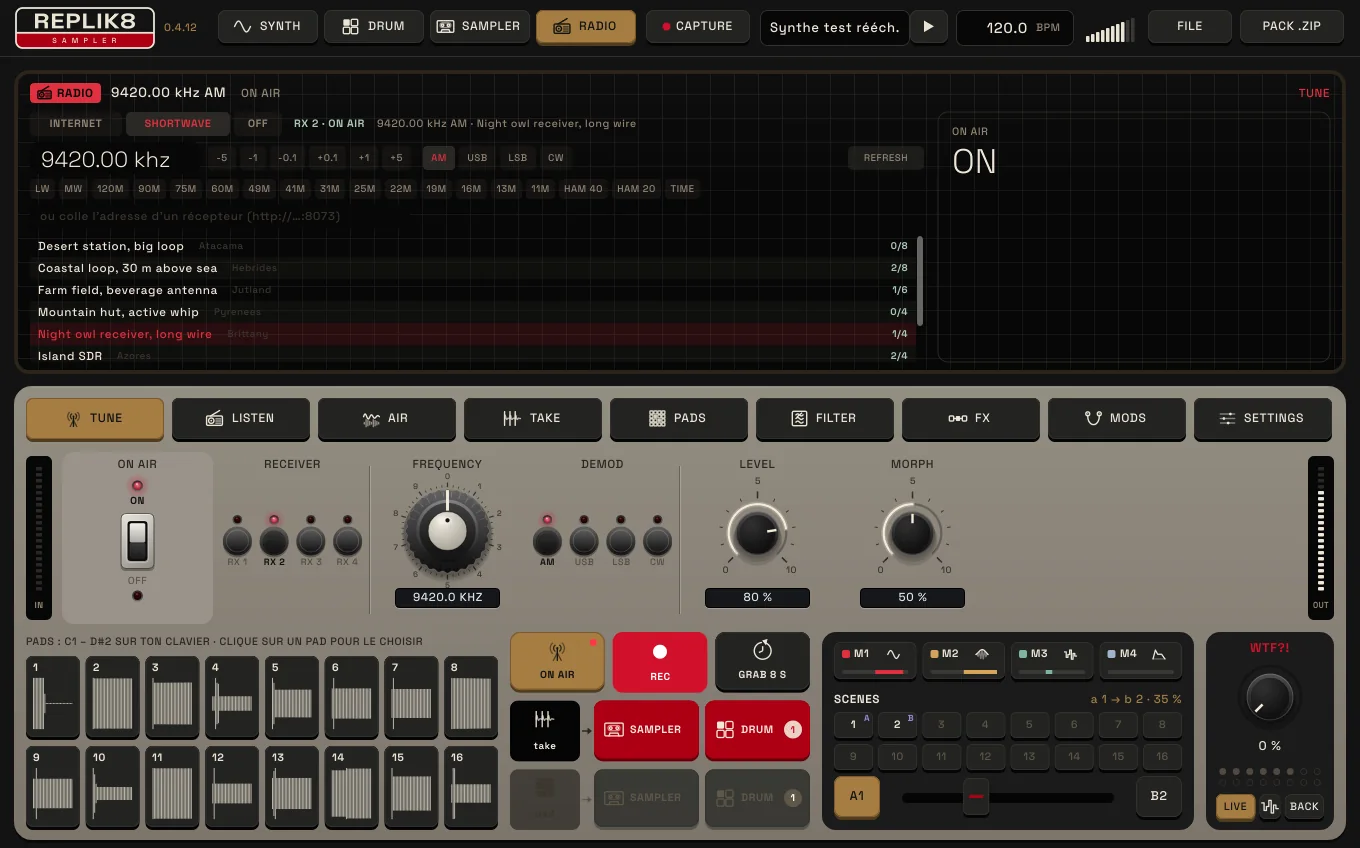
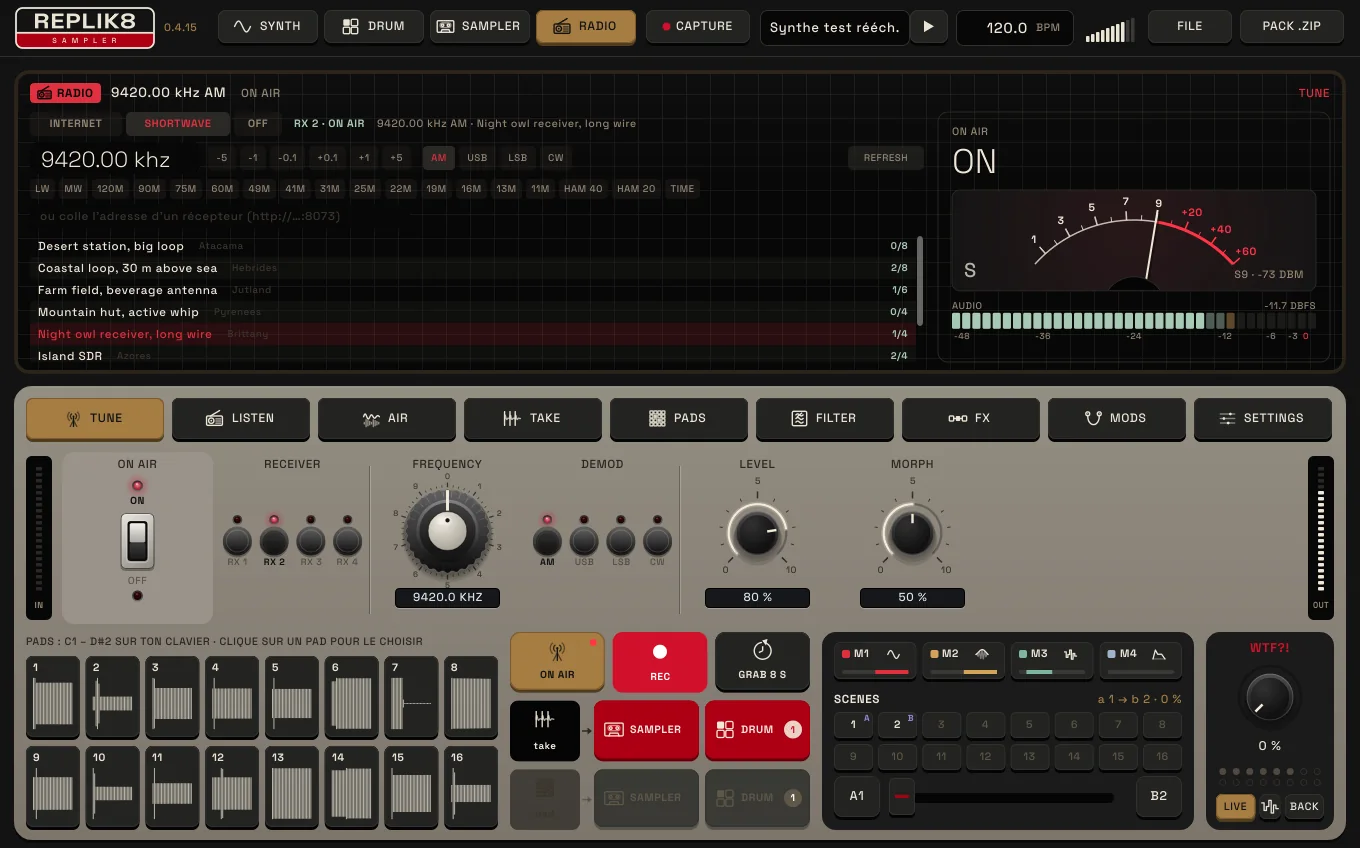
0.4.15: the radio's meters, an S-meter needle and the sound's level
- the right of the screen on the radio's pages: an S-meter (S1 .. S9, +20 .. +60) for a shortwave
  receiver, a VU of the sound for a station on the internet; below, a segmented bar (-48 .. 0 dBFS)
- radio::Engine::sigRms / sigPeak: the sound after the air, before LEVEL, block by block

Claude-Session: https://claude.ai/code/session_019CKNRPzxoxv9FfQ5Cf3pp3

diff --git a/site/index.html b/site/index.html
@@ -216,7 +216,7 @@
   <h2><span>07 · Radio</span><svg class="p" viewBox="0 0 24 24"><rect x="1.5" y="9" width="21" height="12.5" rx="1.6"/><circle cx="7.5" cy="15.2" r="3.4"/><circle class="f" cx="7.5" cy="15.2" r="1.1"/><path d="M14 12.5h5.5M14 15.2h5.5M14 17.9h5.5" opacity=".6"/><path d="M6.5 9 18.5 2"/></svg></h2>
   <p class="intro">Un onglet à part&nbsp;: la radio comme un instrument. Accorde un récepteur, écoute, et dès qu'un truc passe, prends-le. Il est aussitôt découpé en pads, ou envoyé au sampler ou au drum.</p>
   <ul class="steps-list">
-    <li><kbd>TUNE</kbd><b>Quatre récepteurs</b>&nbsp;: chacun sur une station internet (l'annuaire libre des stations, par nom, genre ou pays) ou sur un récepteur ondes courtes partagé sur le réseau, à la fréquence que tu veux (un gros potard d'accord qui tourne lentement pour l'accord fin, et accélère quand tu vas vite&nbsp;; un tour de son cadran pour 10&nbsp;kHz, et la bande défile sans coupure sous les petits mouvements), en AM, USB, LSB ou CW. Plus de 800 récepteurs dans le monde, les plus libres en premier&nbsp;; ou colle l'adresse d'un récepteur trouvé sur une carte (http://…:8073, sa fréquence avec). Le flux garde toujours une seconde d'avance, sans jamais dériver.</li>
+    <li><kbd>TUNE</kbd><b>Quatre récepteurs</b>&nbsp;: chacun sur une station internet (l'annuaire libre des stations, par nom, genre ou pays) ou sur un récepteur ondes courtes partagé sur le réseau, à la fréquence que tu veux (un gros potard d'accord qui tourne lentement pour l'accord fin, et accélère quand tu vas vite&nbsp;; un tour de son cadran pour 10&nbsp;kHz, et la bande défile sans coupure sous les petits mouvements), en AM, USB, LSB ou CW. Un S-mètre à aiguille montre la force du signal, et un VU-mètre le niveau du son. Plus de 800 récepteurs dans le monde, les plus libres en premier&nbsp;; ou colle l'adresse d'un récepteur trouvé sur une carte (http://…:8073, sa fréquence avec). Le flux garde toujours une seconde d'avance, sans jamais dériver.</li>
     <li><kbd>LIVE</kbd><b>Ce qui passe maintenant</b>, décalé comme par un récepteur accordé à côté, haché par le squelch entre les mots. Changer de station ne siffle pas&nbsp;: <b>MORPH</b> fige la station quittée, qui s'assombrit et s'efface pendant que la suivante arrive par-dessus. <b>LOOP</b> rejoue sa dernière mesure au tempo, <b>DIG</b> va chercher plus loin en arrière, à chaque tour.</li>
     <li><kbd>CUT</kbd><b>Un rythme découpé dans toutes tes radios à la fois</b>&nbsp;: chaque pas prend un récepteur au hasard et un moment de ses dernières secondes, calé sur une attaque, ou se tait. Des ratchets, des pas à l'envers, des pas coupés court&nbsp;; le motif boucle, se renouvelle peu à peu (GRAB), et un clic sur lui en tire un autre.</li>
     <li><kbd>AIR</kbd><b>L'air entre les deux</b>&nbsp;: la bande étroite du récepteur, le fading des ondes courtes, un orage au loin, le petit haut-parleur poussé.</li>

diff --git a/Source/ui/Machine.cpp b/Source/ui/Machine.cpp
@@ -1870,8 +1870,166 @@ private:
         }
         if (viz == "dtrig" || viz == "dsrc" || viz == "dpitch" || viz == "damp" || viz == "dtone" || viz == "dseq")
             paintDrumViz (g, viz, in);
+        else if (m.mode == Machine::radioMode && ! m.capture
+                 && (viz == "tune" || viz == "listen" || viz == "air" || viz == "take" || viz == "pads"))
+            paintRadioMeters (g, in);
         else
             paintViz (g, viz, in);
+    }
+
+    //------------------------------------------------------------------ (0.4.15) RADIO: its meters
+    // Above, a needle: a shortwave receiver's S-meter (S1 .. S9, 6 dB each, S9 at -73 dBm, then +20 .. +60 in red), or,
+    // for a station on the internet (nothing on the air to measure), a VU meter of its sound (0 VU at -18 dBFS RMS).
+    // Below, the sound's level as it comes through the air (before LEVEL): its RMS lit, its peaks over it, the highest
+    // held a moment
+    float needleAt = 0.0f, barRms = -90.0f, barPeak = -90.0f, holdDb = -90.0f;
+    double meterT = 0.0, holdT = 0.0;
+
+    void paintRadioMeters (juce::Graphics& g, juce::Rectangle<float> r)
+    {
+        auto& p = proc();
+        const double now = juce::Time::getMillisecondCounterHiRes() * 0.001;
+        const float dt = (float) juce::jlimit (0.0, 0.25, now - meterT);
+        meterT = now;
+        const int rx = juce::jlimit (0, radio::numRx - 1, (int) P (p, snd::rdRx));
+        const bool on = P (p, snd::rdOn) > 0.5f;
+        const int mc = p.radio.bank.rx[(size_t) rx].meterC.load (std::memory_order_relaxed);
+        const bool sw = p.hasRadioNet() && p.radioNet().getSource (rx).kind == 2;
+        const bool smeter = on && sw && mc != -32768;
+        const float rms = on ? p.radio.sigRms.load (std::memory_order_relaxed) : 0.0f;
+        const float pk = on ? p.radio.sigPeak.load (std::memory_order_relaxed) : 0.0f;
+        auto db = [] (float a) { return a > 1.0e-6f ? 20.0f * std::log10 (a) : -120.0f; };
+
+        // the needle's place (0 .. 1 along its scale)
+        const float dbm = (float) mc * 0.01f;
+        auto sPos = [] (float d)            // S0 (-127 dBm) .. S9 (-73): 0 .. 0.6; S9 .. +60 (-13): 0.6 .. 1
+        {
+            return d <= -73.0f ? 0.6f * juce::jlimit (0.0f, 1.0f, (d + 127.0f) / 54.0f) : 0.6f + 0.4f * juce::jlimit (0.0f, 1.0f, (d + 73.0f) / 60.0f);
+        };
+        auto vuPos = [] (float vu) { return juce::jlimit (0.0f, 1.0f, std::pow (10.0f, (vu - 3.0f) / 20.0f)); };   // a VU's face: in volts
+        const float vuNow = db (rms) + 18.0f;
+        const float target = ! on ? 0.0f : (smeter ? sPos (dbm) : vuPos (vuNow));
+        // its ballistics: an S-meter quick up and slow down, a VU as slow both ways
+        const float tc = smeter ? (target > needleAt ? 0.05f : 0.45f) : 0.3f;
+        needleAt += (target - needleAt) * (1.0f - std::exp (-dt / tc));
+
+        // ---- the needle's window
+        auto bar = r.removeFromBottom (juce::jmin (54.0f, r.getHeight() * 0.32f));
+        r.removeFromBottom (8.0f);
+        auto win = r;
+        g.setColour (col::screen.brighter (0.06f));
+        g.fillRoundedRectangle (win, 8.0f);
+        {
+            // a warm light behind the scale
+            juce::ColourGradient glow (col::sOrange.withAlpha (0.10f), win.getCentreX(), win.getY() + win.getHeight() * 0.35f,
+                                       col::sOrange.withAlpha (0.0f), win.getX(), win.getBottom(), true);
+            g.setGradientFill (glow);
+            g.fillRoundedRectangle (win, 8.0f);
+        }
+        g.setColour (col::screenLine);
+        g.drawRoundedRectangle (win, 8.0f, 1.0f);
+        {
+            juce::Graphics::ScopedSaveState keep (g);
+            g.reduceClipRegion (win.reduced (1.0f).toNearestInt());
+            const float half = juce::degreesToRadians (48.0f);
+            const juce::Point<float> pivot (win.getCentreX(), win.getBottom() + win.getHeight() * 0.62f);
+            const float R = pivot.y - (win.getY() + 30.0f);
+            auto at = [&] (float pos, float rad)
+            {
+                const float a = -half + 2.0f * half * pos;
+                return juce::Point<float> (pivot.x + std::sin (a) * rad, pivot.y - std::cos (a) * rad);
+            };
+            // the scale: its arc, white then red
+            const float redFrom = smeter ? 0.6f : vuPos (0.0f);
+            auto arc = [&] (float a0, float a1, juce::Colour c, float w)
+            {
+                juce::Path pa;
+                pa.addCentredArc (pivot.x, pivot.y, R, R, 0.0f, -half + 2.0f * half * a0, -half + 2.0f * half * a1, true);
+                g.setColour (c);
+                g.strokePath (pa, juce::PathStrokeType (w));
+            };
+            arc (0.0f, redFrom, col::screenText.withAlpha (0.8f), 1.5f);
+            arc (redFrom, 1.0f, col::sRed, 3.0f);
+            struct Mark { float pos; juce::String label; bool red; };
+            std::vector<Mark> marks;
+            if (smeter)
+            {
+                for (int s = 1; s <= 9; ++s)
+                    marks.push_back ({ sPos (-127.0f + 6.0f * (float) s), s % 2 == 1 ? juce::String (s) : juce::String(), false });
+                for (int plus : { 10, 20, 30, 40, 50, 60 })
+                    marks.push_back ({ sPos (-73.0f + (float) plus), plus % 20 == 0 ? "+" + juce::String (plus) : juce::String(), true });
+            }
+            else
+                for (int vu : { -20, -10, -7, -5, -3, -2, -1, 0, 1, 2, 3 })
+                    marks.push_back ({ vuPos ((float) vu), (vu == -20 || vu == -10 || vu == -5 || vu == -3 || vu == 0 || vu == 3) ? (vu > 0 ? "+" : "") + juce::String (vu) : juce::String(), vu > 0 });
+            for (auto& mk : marks)
+            {
+                const bool big = mk.label.isNotEmpty();
+                g.setColour (mk.red ? col::sRed : col::screenText.withAlpha (0.85f));
+                g.drawLine ({ at (mk.pos, R), at (mk.pos, R + (big ? 9.0f : 5.0f)) }, big ? 1.6f : 1.0f);
+                if (big)
+                    text (g, mk.label, juce::Rectangle<float> (34.0f, 14.0f).withCentre (at (mk.pos, R + 18.0f)), mono (11.0f, 600),
+                          mk.red ? col::sRed : col::screenText, juce::Justification::centred);
+            }
+            // what it reads, in its corners
+            text (g, smeter ? "S" : "VU", win.reduced (12.0f, 8.0f), grotesk (20.0f, 500), col::screenText.withAlpha (0.75f), juce::Justification::bottomLeft);
+            juce::String reading;
+            if (! on)
+                reading = "off air";
+            else if (smeter)
+            {
+                const int s = juce::jlimit (0, 9, (int) std::floor ((dbm + 127.0f) / 6.0f));
+                reading << "s" << s << (dbm > -73.0f ? "+" + juce::String (juce::roundToInt (dbm + 73.0f)) : juce::String())
+                        << " · "_fr << juce::roundToInt (dbm) << " dbm";
+            }
+            else
+                reading << (sw ? "no s-meter · " : "") << (vuNow < -40.0f ? juce::String ("--") : juce::String (juce::roundToInt (vuNow))) << " vu";
+            text (g, reading, win.reduced (12.0f, 9.0f), mono (11.0f), col::screenDim, juce::Justification::bottomRight);
+            // the needle, its shadow, the pivot's cap at the window's foot
+            const auto tip = at (needleAt, R + 12.0f), foot = at (needleAt, win.getHeight() * 0.05f);
+            g.setColour (juce::Colours::black.withAlpha (0.35f));
+            g.drawLine ({ foot.translated (2.0f, 2.0f), tip.translated (2.0f, 2.0f) }, 2.2f);
+            g.setColour (col::screenText);
+            g.drawLine ({ foot, tip }, 2.0f);
+            g.setColour (col::screen.darker (0.3f));
+            g.fillEllipse (juce::Rectangle<float> (64.0f, 64.0f).withCentre ({ pivot.x, win.getBottom() + 18.0f }));
+            g.setColour (col::screenLine);
+            g.drawEllipse (juce::Rectangle<float> (64.0f, 64.0f).withCentre ({ pivot.x, win.getBottom() + 18.0f }), 1.0f);
+        }
+
+        // ---- the bar: -48 .. 0 dBFS in segments (green, yellow from -12, red from -3)
+        const float rDb = db (rms), pDb = db (pk);
+        barRms += (rDb - barRms) * (1.0f - std::exp (-dt / (rDb > barRms ? 0.06f : 0.3f)));
+        barPeak = pDb > barPeak ? pDb : barPeak + (pDb - barPeak) * (1.0f - std::exp (-dt / 0.5f));
+        if (pDb >= holdDb || now - holdT > 1.5)
+        {
+            holdDb = pDb >= holdDb ? pDb : barPeak;
+            if (pDb >= holdDb - 0.01f)
+                holdT = now;
+        }
+        auto head = bar.removeFromTop (14.0f);
+        text (g, "audio", head, mono (10.0f), col::screenDim);
+        text (g, (! on || pDb < -90.0f) ? juce::String ("--") : juce::String (pDb, 1) + " dbfs", head, mono (10.0f), col::screenDim, juce::Justification::centredRight);
+        auto seg = bar.removeFromTop (16.0f);
+        auto labels = bar.removeFromTop (14.0f);
+        const int n = 36;
+        const float gap = 2.0f, sw2 = (seg.getWidth() - gap * (float) (n - 1)) / (float) n;
+        auto xOf = [&] (float d) { return seg.getX() + seg.getWidth() * juce::jlimit (0.0f, 1.0f, (d + 48.0f) / 48.0f); };
+        for (int i = 0; i < n; ++i)
+        {
+            const float d0 = -48.0f + 48.0f * (float) i / (float) n, d1 = -48.0f + 48.0f * (float) (i + 1) / (float) n;
+            const auto c = d1 > -3.0f ? col::sRed : (d1 > -12.0f ? col::sYellow : col::sGreen);
+            const bool lit = on && barRms >= d0, peakLit = on && barPeak >= d0, held = on && holdDb >= d0 && holdDb < d1;
+            const auto cell = juce::Rectangle<float> (seg.getX() + (float) i * (sw2 + gap), seg.getY(), sw2, seg.getHeight());
+            g.setColour (lit ? c : (peakLit ? c.withAlpha (0.45f) : (held ? c.withAlpha (0.9f) : col::screenLine.withAlpha (0.6f))));
+            g.fillRoundedRectangle (cell, 1.5f);
+        }
+        for (int d : { -48, -36, -24, -12, -6, -3, 0 })
+        {
+            const float x = xOf ((float) d);
+            text (g, juce::String (d), juce::Rectangle<float> (30.0f, 14.0f).withCentre ({ juce::jlimit (seg.getX() + 10.0f, seg.getRight() - 10.0f, x), labels.getCentreY() }),
+                  mono (9.0f), d > -3 ? col::sRed : col::screenDim, juce::Justification::centred);
+        }
     }
 
     // DRUM's pages: the track shown (its value on the first step lifted, if any)

diff --git a/Source/radio/RadioCore.cpp b/Source/radio/RadioCore.cpp
@@ -625,7 +625,8 @@ void Engine::listen (float* L, float* R, int n, const Settings& s)
     const float sgOpen = 1.0f / (0.002f * fsr), sgClose = 1.0f / (0.03f * fsr);
     const float shInc = shHz * isr;
     const float level = clamp01 (s.level) * 1.25f;
-    float peak = 0.0f;
+    float peak = 0.0f, sigPk = 0.0f;
+    double sigSum = 0.0;
 
     for (int i = 0; i < n; ++i)
     {
@@ -884,6 +885,8 @@ void Engine::listen (float* L, float* R, int n, const Settings& s)
                 dLp[c] += (y - dLp[c]) * dlpA;
                 x[c] += (dLp[c] - x[c]) * dmix;
             }
+        sigSum += (double) (x[0] * x[0] + x[1] * x[1]);
+        sigPk = std::max (sigPk, std::max (std::abs (x[0]), std::abs (x[1])));
         const float g = level * sqG;
         L[i] = x[0] * g;
         R[i] = x[1] * g;
@@ -894,6 +897,8 @@ void Engine::listen (float* L, float* R, int n, const Settings& s)
     loopSeconds.store (md == modeLive || cur < 0 ? 0.0f : (float) loopLen[cur] / (float) rate, std::memory_order_relaxed);
     gateOpen.store (sqG, std::memory_order_relaxed);
     heardLevel.store (std::max (peak, heardLevel.load (std::memory_order_relaxed) * 0.9f), std::memory_order_relaxed);
+    sigRms.store (n > 0 && std::isfinite (sigSum) ? (float) std::sqrt (sigSum / (2.0 * n)) : 0.0f, std::memory_order_relaxed);
+    sigPeak.store (std::isfinite (sigPk) ? sigPk : 0.0f, std::memory_order_relaxed);
     cutNow.store (md == modeCut ? cutStep : -1, std::memory_order_relaxed);
 
     // (nothing that isn't a number stays in the filters)
@@ -941,6 +946,8 @@ void Engine::render (float* L, float* R, int n, const Settings& s, const Event* 
         std::fill (R, R + n, 0.0f);
         mode = -1;
         heardLevel.store (0.0f, std::memory_order_relaxed);
+        sigRms.store (0.0f, std::memory_order_relaxed);
+        sigPeak.store (0.0f, std::memory_order_relaxed);
         gateOpen.store (1.0f, std::memory_order_relaxed);
         loopPos.store (-1.0f, std::memory_order_relaxed);
         int pos = 0;

diff --git a/Source/radio/RadioCore.h b/Source/radio/RadioCore.h
@@ -206,6 +206,9 @@ namespace radio
         int64_t peaksWritten() const               { return peakW.load (std::memory_order_acquire); }
         float peakAt (int64_t index) const         { return peaks.empty() ? 0.0f : peaks[(size_t) (index % (int64_t) peaks.size())]; }
         std::atomic<float> loopPos { -1.0f }, loopSeconds { 0.0f }, gateOpen { 1.0f }, heardLevel { 0.0f };
+        // (0.4.15) the meters: the sound as it comes through the air (before LEVEL and the squelch), the last block's
+        // RMS and peak
+        std::atomic<float> sigRms { 0.0f }, sigPeak { 0.0f };
         std::array<std::atomic<float>, numPads> padGlow {};
         std::array<std::atomic<float>, numPads> padAt {};     // where each pad plays (0..1 of its slice), < 0 none
         // CUT: a new pattern at once (message thread); the screen: each step (-1 a rest, else its receiver, + 16 per

diff --git a/RELEASE_NOTES.md b/RELEASE_NOTES.md
@@ -1,3 +1,9 @@
+**REPLIK8 0.4.15** : un S-mètre à aiguille et un VU de la radio.
+
+- **Les vu-mètres de la radio** : sur les pages TUNE, LISTEN, AIR, TAKE et PADS, la partie droite de l'écran montre maintenant un cadran à aiguille et, en dessous, une barre de niveau
+- **L'aiguille** : sur un récepteur ondes courtes, c'est son S-mètre, comme sur un vrai poste : de S1 à S9 (6 dB par point, S9 à -73 dBm), puis +20, +40, +60 en rouge pour les stations puissantes. Elle monte vite et redescend lentement, et aide à l'accord : elle grimpe quand tu tombes sur une station. Sur une station internet, sans signal radio à mesurer, c'est un VU-mètre de son son (0 VU à -18 dBFS)
+- **La barre** : le niveau du son tel qu'il arrive, avec son air, avant LEVEL, de -48 à 0 dBFS : sa moyenne allumée, ses crêtes par-dessus, la plus haute tenue un instant
+
 **REPLIK8 0.4.14** : le potard d'accord tourne lentement, et la bande défile sans coupure.
 
 - **Accord fin** : le gros potard FREQUENCY des ondes courtes tourne plus lentement que les autres : 40 pixels pour 1 kHz, un tour de son cadran (400 pixels) pour 10 kHz. Plus tu vas vite, plus il accélère (jusqu'à 10 kHz par pixel), pour traverser la bande d'un geste puis revenir lentement sur une station. Maj : encore plus fin. La molette : 1 kHz par cran (Maj : 0,1 kHz). L'afficheur montre toujours le dixième de kHz

diff --git a/README.md b/README.md
@@ -4,6 +4,11 @@
 
 **Page de téléchargement** : https://distortedimages-code.github.io/REPLIKANT/
 
+## La version 0.4.15 : les vu-mètres de la radio
+
+- **`Screen::paintRadioMeters`** (pages `tune`, `listen`, `air`, `take`, `pads` du mode RADIO, sous le rappel du réglage touché) : un cadran en arc (±48°, pivot sous la fenêtre). Ondes courtes avec S-mètre (`Rx::meterC`) : S0 à S9 (-127 à -73 dBm) sur 60 % de l'échelle, S9 à S9+60 (-13 dBm) sur le reste, montée 50 ms, descente 450 ms. Sinon : VU sur le RMS du son (`Engine::sigRms`, 0 VU = -18 dBFS), échelle en tension, 300 ms. Dessous : 36 segments de -48 à 0 dBFS (RMS 60/300 ms, crêtes `sigPeak` qui retombent en 0,5 s, la plus haute tenue 1,5 s).
+- **`radio::Engine::sigRms` / `sigPeak`** : le son après l'air, avant LEVEL et le squelch, mesuré bloc par bloc ; remis à zéro hors antenne.
+
 ## La version 0.4.14 : l'accord fin
 
 - **`Ctl::tuneGet` / `tuneSet` / `tuneRate`** : un potard `tuning` qui les a tourne au pixel en unités (0,025 kHz par pixel pour la fréquence), multiplié par 1 + (v / 250)² selon la vitesse lissée du geste v (pixels par seconde), 400 au plus ; Maj : ×0,4 sans accélération. L'`Encoder` garde la valeur fine (`tuneValue`), sous l'arrondi au dixième du setter ; la molette : `d` × 10 × 40 × `tuneRate` (1 kHz pour un cran de 0,1).
